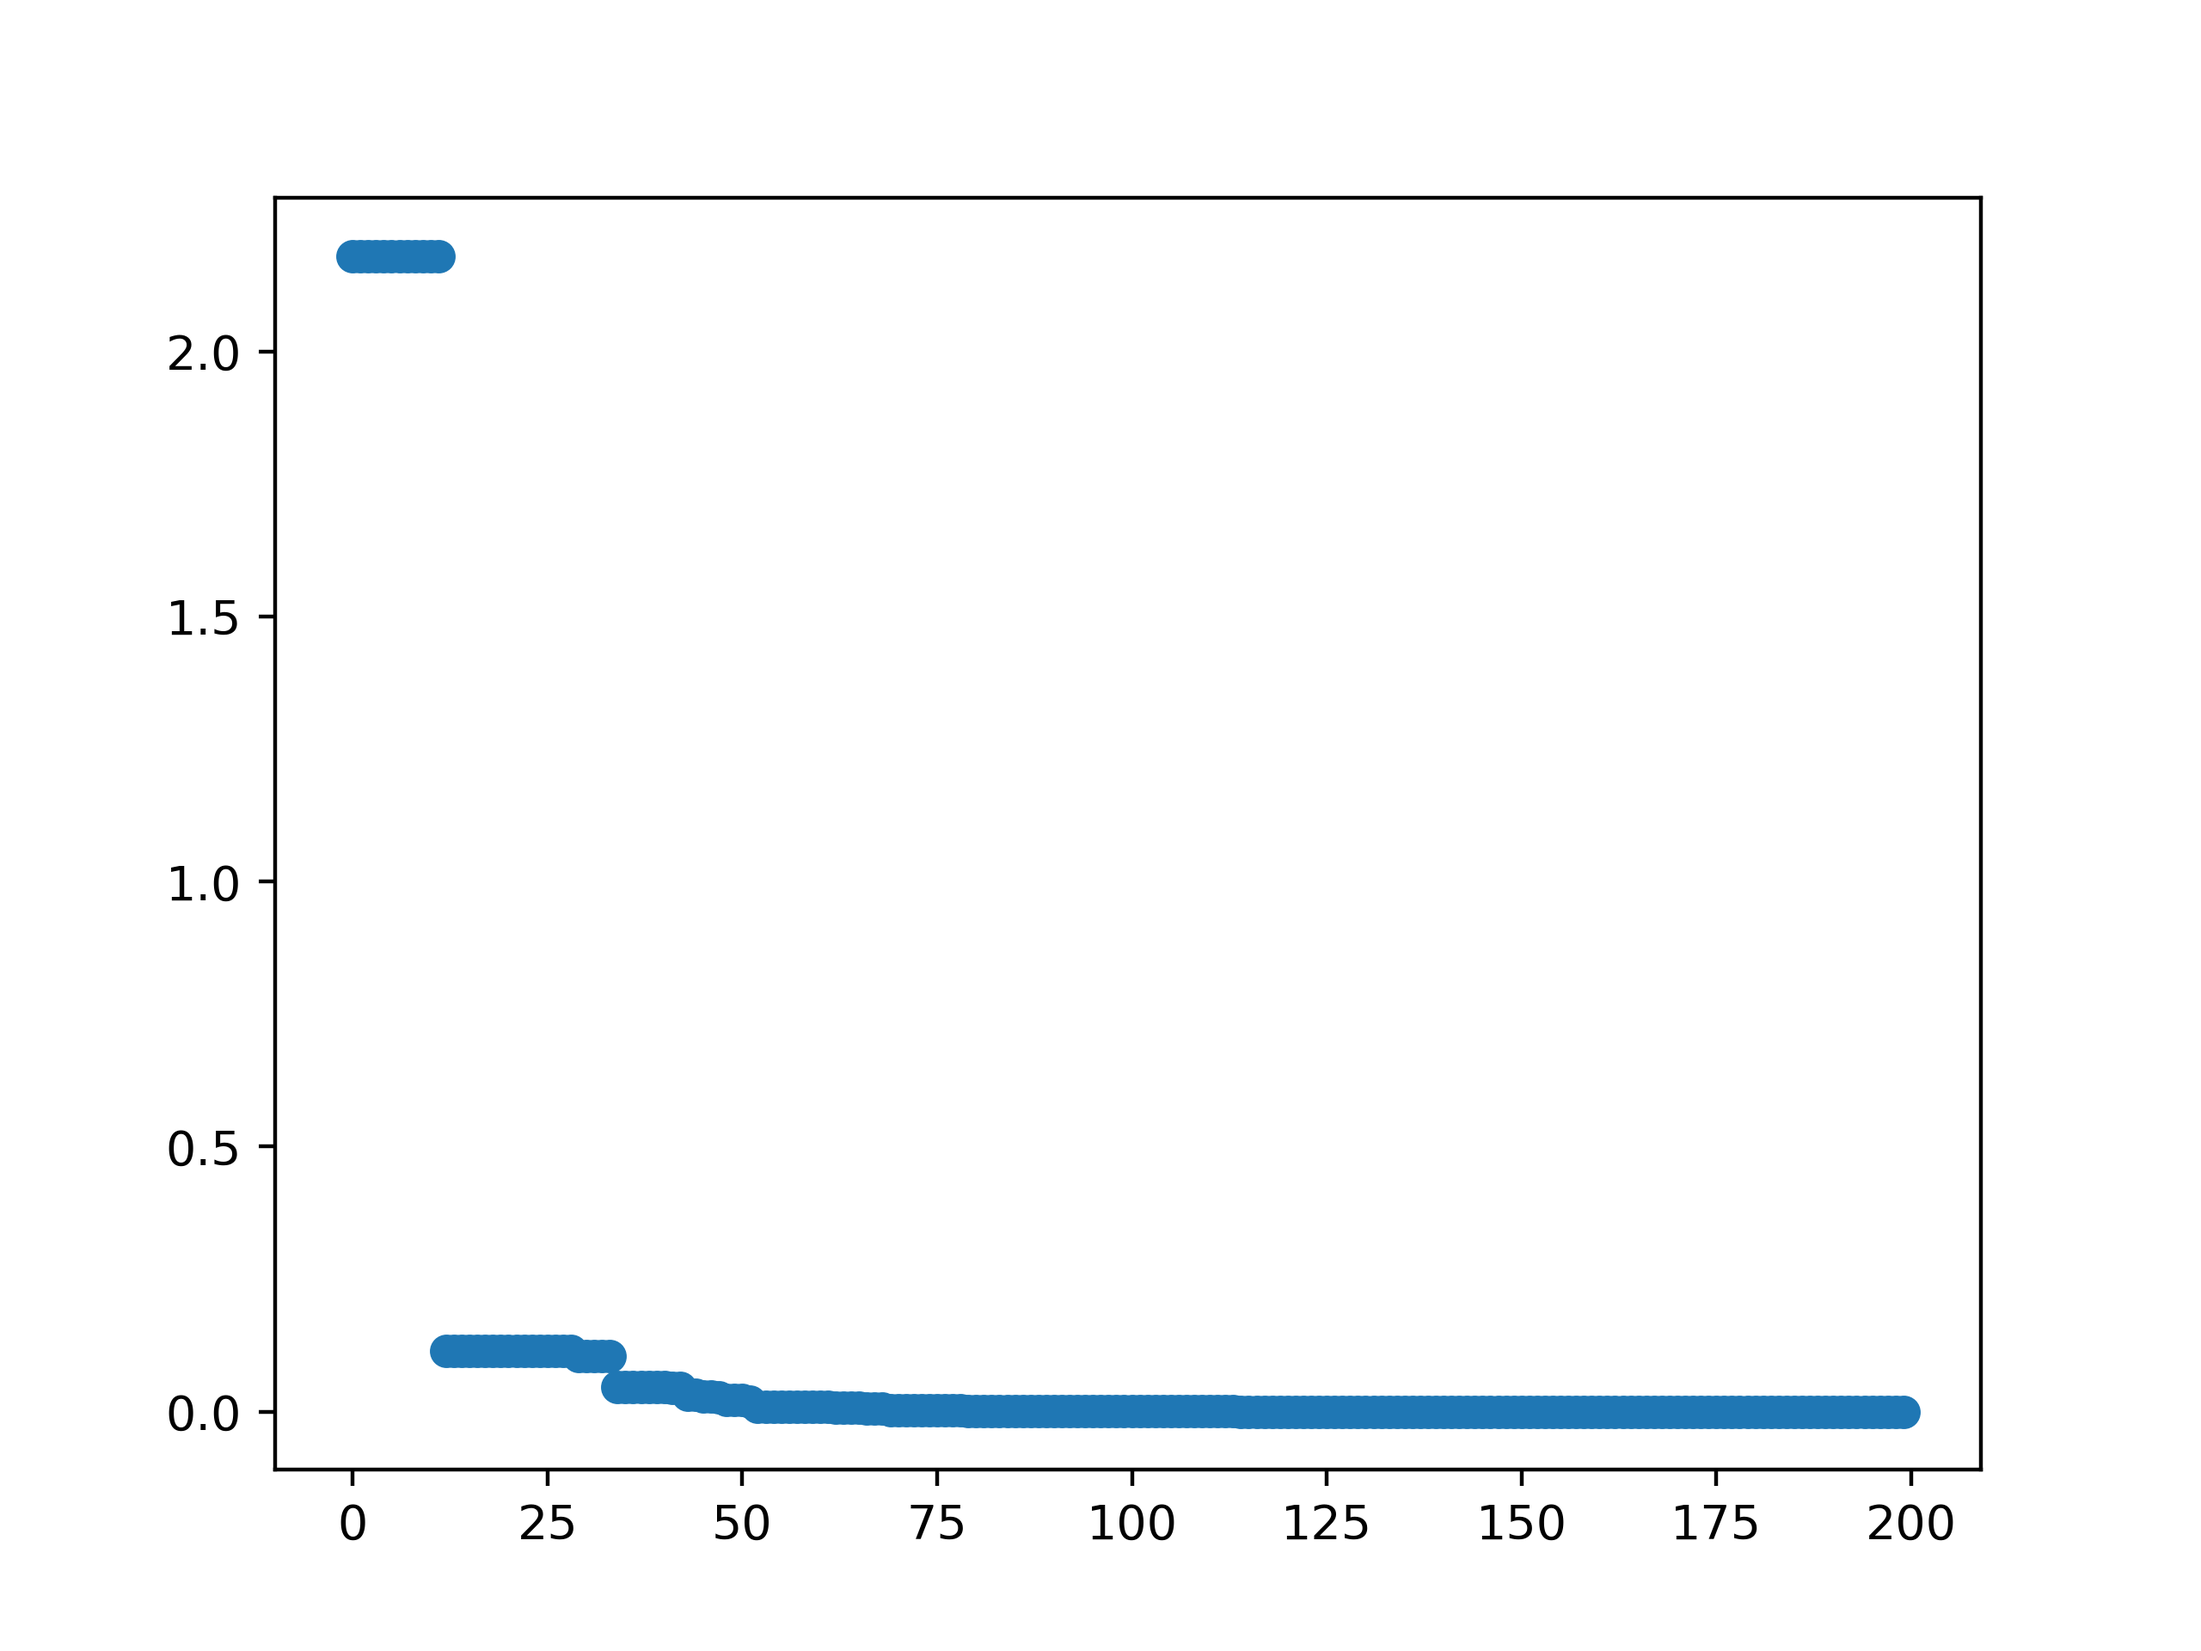
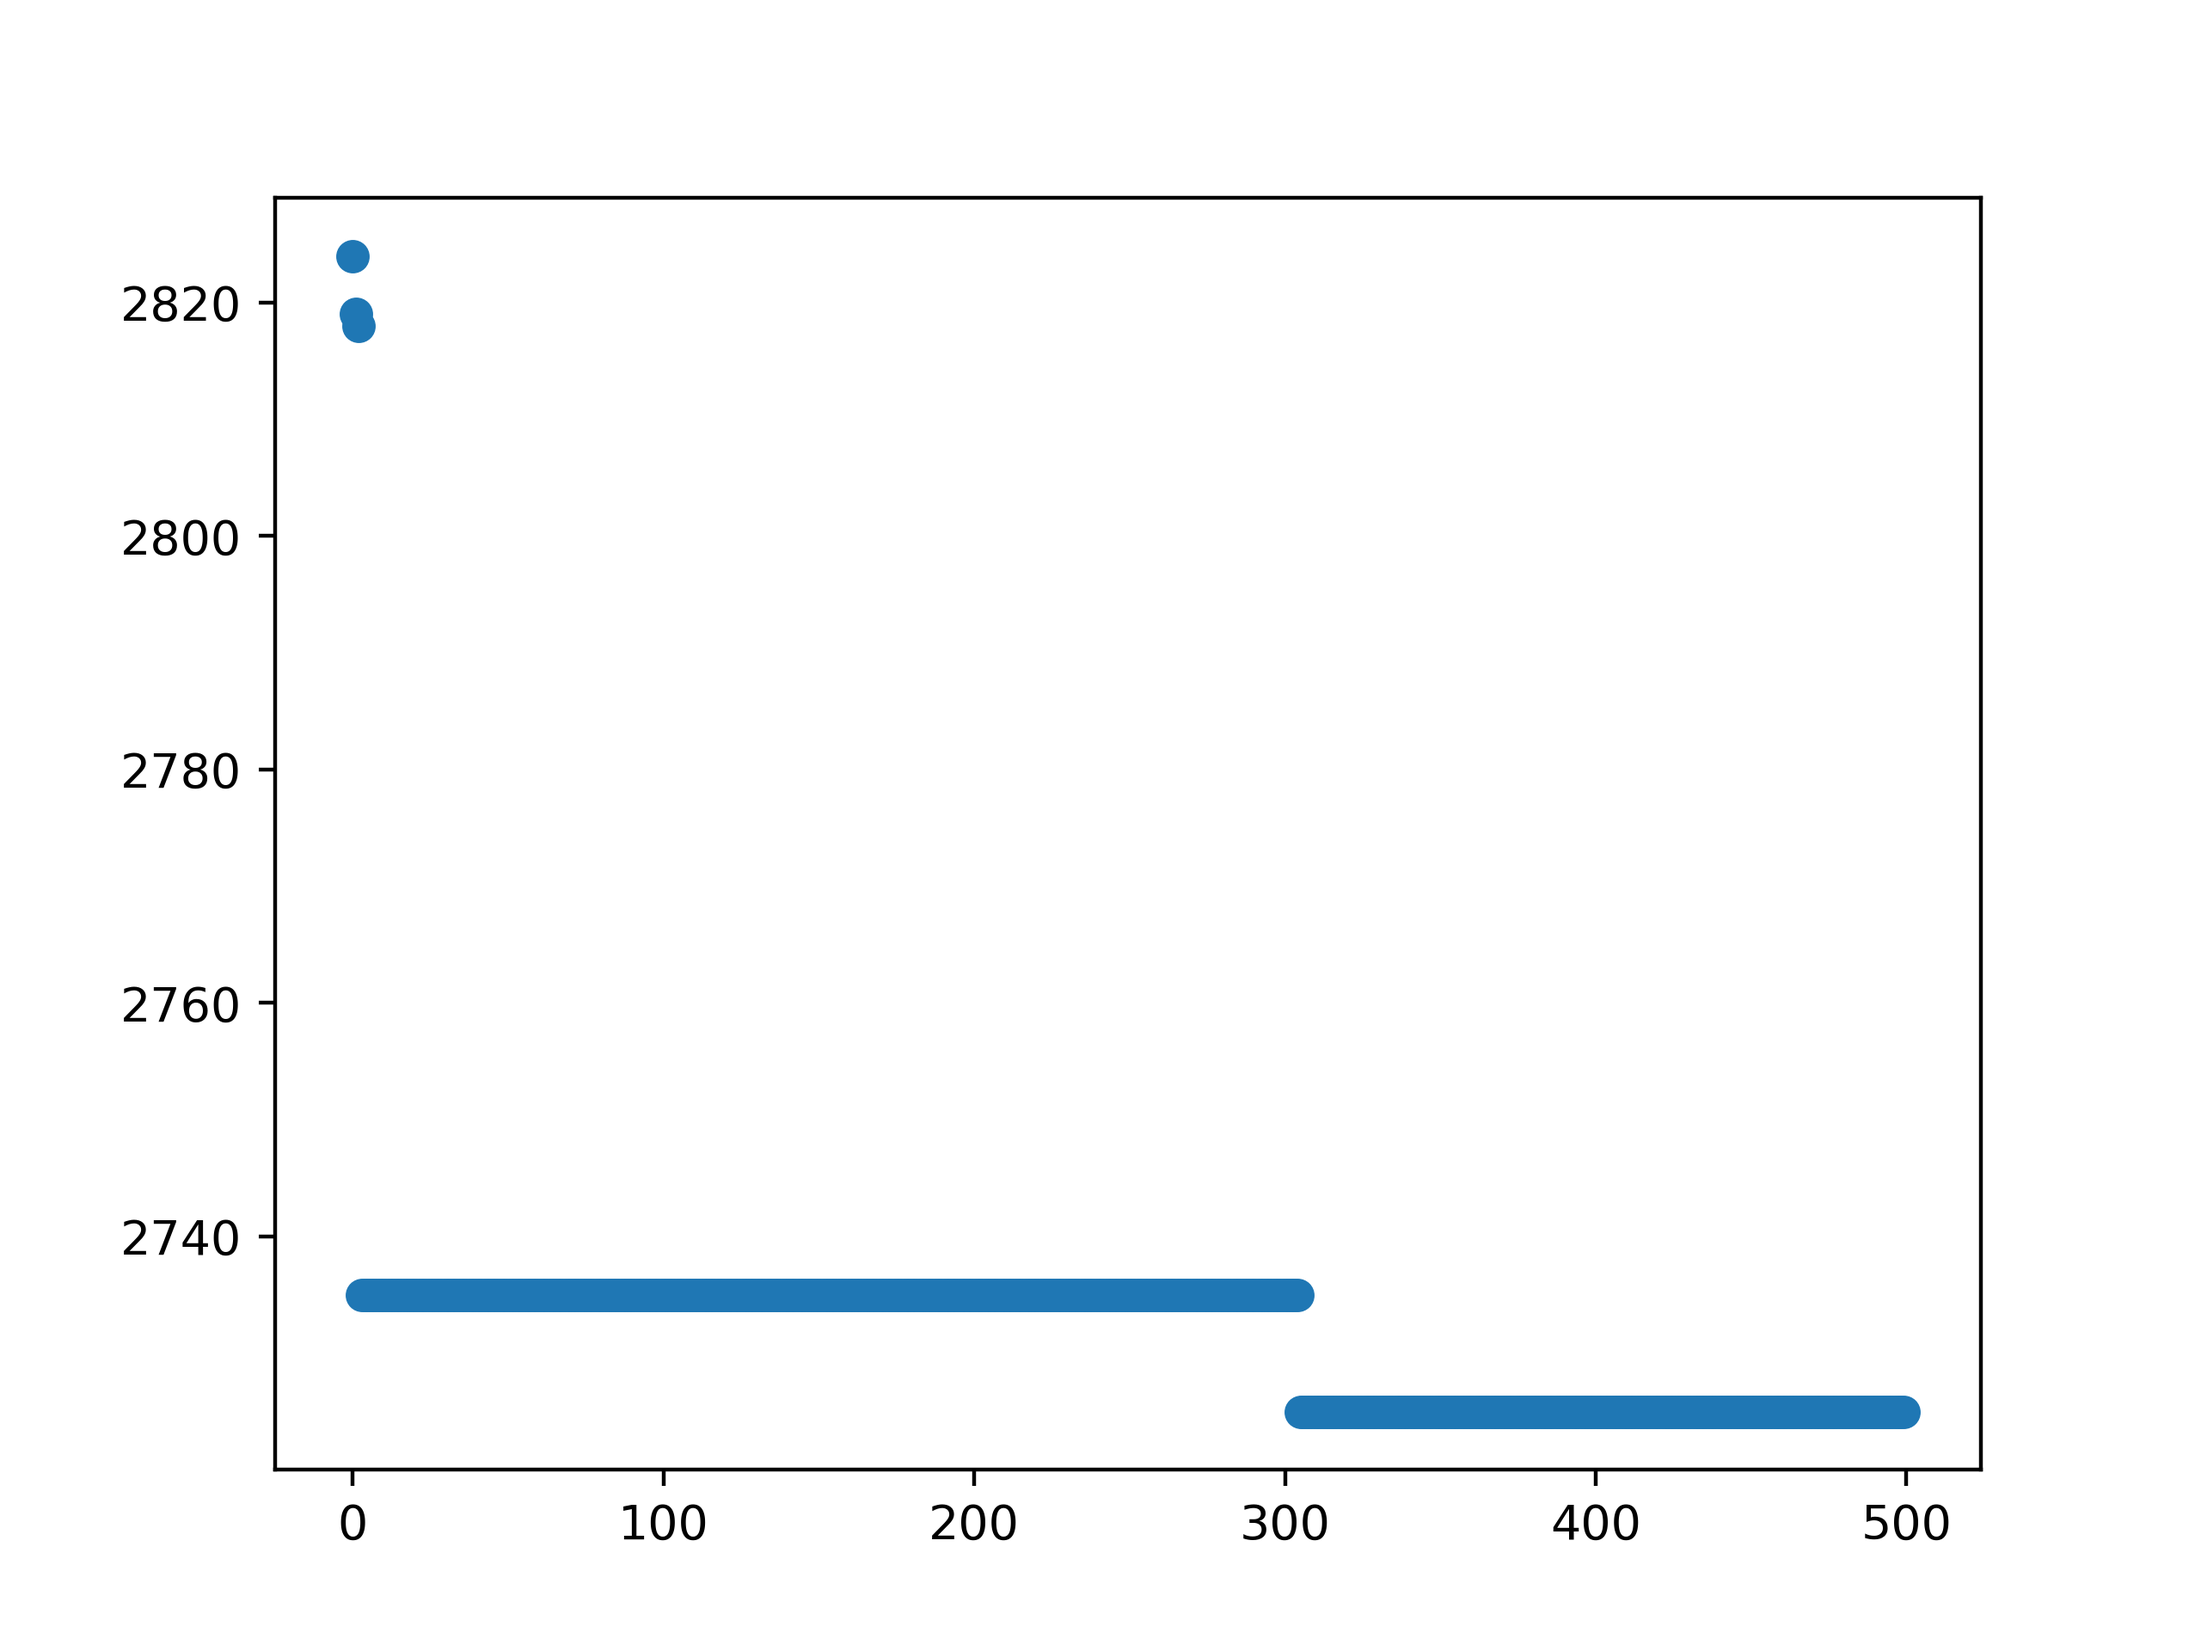
no caminho

diff --git a/seminario/FPA_ox.py b/seminario/FPA_ox.py
@@ -1,0 +1,202 @@
+import numpy as np 
+import random
+import pandas as pd
+from scipy.stats import levy_stable
+import matplotlib.pyplot as plt
+import matplotlib.colors as mcolors
+import os, sys
+
+
+def calcular_makespan(sequencia, tempos):
+    N = len(sequencia)
+    M = len(tempos[0])
+    C = np.zeros((N, M))
+
+    for i, tarefa in enumerate(sequencia):
+        for m in range(M):
+            tempo_proc = tempos[tarefa][m]
+            if i == 0 and m == 0:
+                C[i, m] = tempo_proc
+            elif i == 0:
+                C[i, m] = C[i, m-1] + tempo_proc
+            elif m == 0:
+                C[i, m] = C[i-1, m] + tempo_proc
+            else:
+                C[i, m] = max(C[i-1, m], C[i, m-1]) + tempo_proc
+
+    return C[-1, -1]
+
+class Polen():
+    def __init__(self, m, valores=None):
+        self.m = m
+        if valores is not None:
+            self.valores = np.array(valores)
+        else:
+            self.valores = np.random.permutation(m)
+
+    def __str__(self):
+        return ' '.join(str(v) for v in self.valores) 
+    
+    def __repr__(self):
+        return self.__str__()
+
+class FPA(): 
+    def __init__(self, n, m = 10, taxa_corte = 0.2):
+        self.N, self.M = None, None
+        self.intervalo = (-4, 4)
+        self.tempos     = self.get_tempos()
+        self.n = n                                      #dimensao de cada vetor solucao
+        self.m = m                                      #numero de flores na populacao
+        self.pop = [Polen(self.m) for _ in range(n)]    #POPULACAO = [X1, X2, ..., Xn]
+        self.L  = None 
+        self.p  = 0.8
+        self._lambda = 1.5
+        self.maxIt = 500
+        self.gestrela = None
+        self.corte = int(taxa_corte*n)
+        self.melhor_fitness = None
+        print('n, m:', self.n, self.m)
+
+    def get_tempos(self): 
+        with open(sys.argv[1], 'r') as f:
+            N, M = map(int, f.readline().split())
+
+            matriz = []
+            for _ in range(N):
+                linha = list(map(float, f.readline().split()))
+                matriz.append(linha)
+
+        self.N = N 
+        self.n = N 
+        self.M = M
+        return matriz
+
+    """def fitness(self, x):
+        n = x.m
+        x = x.valores
+        part1 = -0.2 * np.sqrt(np.sum(x**2) / n)
+        part2 = np.sum(np.cos(2 * np.pi * x)) / n
+        return -20 * np.exp(part1) - np.exp(part2) + 20 + np.e
+    """
+    def fitness(self, x):
+        # x é uma instância de Polen ou um array diretamente
+        if isinstance(x, Polen):
+            sequencia = list(map(int, x.valores % self.N))  # garante índices válidos
+        else:
+            sequencia = list(map(int, x % self.N))          # no caso de array
+
+        # Remove duplicatas e completa com tarefas faltantes (para garantir permutação)
+        sequencia = list(dict.fromkeys(sequencia))
+        faltantes = [i for i in range(self.N) if i not in sequencia]
+        sequencia += faltantes
+        return calcular_makespan(sequencia, self.tempos)
+    
+    def ox_crossover(self, pai1, pai2):
+        n_preservados = self.corte
+        tamanho = len(pai1)
+
+        # Escolhe aleatoriamente a posição de início para os genes preservados
+        inicio = np.random.randint(0, tamanho - n_preservados + 1)
+        fim = inicio + n_preservados
+
+        # Cria filhos com None (ou -1 se preferir) nos espaços a serem preenchidos
+        filho1 = [None] * tamanho
+        filho2 = [None] * tamanho
+
+        # Copia o segmento preservado dos pais
+        filho1[inicio:fim] = pai1[inicio:fim]
+        filho2[inicio:fim] = pai2[inicio:fim]
+
+        # Função auxiliar para preencher os filhos com os elementos do outro pai
+        def preencher(filho, outro_pai, inicio, fim):
+            idx = fim % tamanho
+            for gene in outro_pai:
+                if gene not in filho:
+                    filho[idx] = gene
+                    idx = (idx + 1) % tamanho
+            return np.array(filho)
+
+        filho1 = preencher(filho1, pai2, inicio, fim)
+        filho2 = preencher(filho2, pai1, inicio, fim)
+
+        return filho1, filho2
+
+    def rodar(self): 
+        results_fitness = []
+
+        # Inicializa g*
+        melhor_idx = min(range(self.n), key=lambda i: self.fitness(self.pop[i]))
+        self.gestrela = Polen(self.m)
+        self.gestrela.valores = self.pop[melhor_idx].valores.copy()
+        self.melhor_fitness = self.fitness(self.gestrela)
+
+        for it in range(self.maxIt): 
+            for i in range(0, self.n, 2): 
+                xi1 = self.pop[i].valores.copy()            #x_{i} 
+                xi2 = self.pop[i+1].valores.copy()          #x_{i+1}
+
+                #Polinizacao global
+                if np.random.rand() < self.p:
+                    #gera a distribuicao de Levy 
+                    L1 = levy_stable.rvs(self._lambda, beta=0, size=self.m)
+                    L2 = levy_stable.rvs(self._lambda, beta=0, size=self.m)
+                    x_new   = xi1 + L1*(self.gestrela.valores - xi1)
+                    x_new2  = xi2 + L2*(self.gestrela.valores - xi2)
+                
+                #Polinizacao local
+                else:
+                    j = random.randint(0, self.n - 1)
+                    k = random.randint(0, self.n - 1)
+
+                    while j == k:
+                        k = random.randint(0, self.n - 1)
+
+                    epsilon1 = np.random.uniform(size=self.m)
+                    epsilon2 = np.random.uniform(size=self.m)
+
+                    #x_new    = xi1 + epsilon1 * (self.pop[j].valores - self.pop[k].valores)
+                    x_new, x_new2 = self.ox_crossover(self.pop[j].valores, self.pop[k].valores)
+
+                #assegura que xmin <= x <= xmax
+                #x_new   = np.clip(x_new, self.intervalo[0], self.intervalo[1])
+                #x_new2  = np.clip(x_new2, self.intervalo[0], self.intervalo[1])
+
+                novo_polen = Polen(self.m)
+                novo_polen.valores = x_new
+
+                novo_polen2 = Polen(self.m)
+                novo_polen2.valores = x_new2
+
+                #inserindo os novos polens na populacao, caso tenham fitnesse melhor (elitismo) 
+                if self.fitness(novo_polen) < self.fitness(self.pop[i].valores):
+                    self.pop[i].valores = x_new
+
+                    # Atualiza g* se necessario
+                    if self.fitness(novo_polen) < self.melhor_fitness:
+                        self.gestrela.valores = x_new.copy()
+                        self.melhor_fitness = self.fitness(novo_polen)
+                
+                if self.fitness(novo_polen2) < self.fitness(self.pop[i+1].valores):
+                    self.pop[i+1].valores = x_new2
+
+                    # Atualiza g* se necessario
+                    if self.fitness(novo_polen2) < self.melhor_fitness:
+                        self.gestrela.valores = x_new2.copy()
+                        self.melhor_fitness = self.fitness(novo_polen2)
+
+            results_fitness.append(self.melhor_fitness)
+    
+        self.historico_fitness = results_fitness
+
+            
+    def __str__(self):
+        return f'Numero de polens: {self.n}\nVetor gbest:{self.gestrela}\nMelhor Fitness: {self.melhor_fitness}\n'+ str(self.pop)
+        
+
+
+
+fpa = FPA(10, m  = 3)
+fpa.rodar()
+plt.scatter(range(fpa.maxIt), fpa.historico_fitness)
+plt.savefig('results.png', dpi = 400)
+print(fpa)

diff --git a/seminario/teste.py b/seminario/teste.py
@@ -1,0 +1,40 @@
+import numpy as np
+
+
+def ox_crossover(pai1, pai2, n_preservados):
+    tamanho = len(pai1)
+
+    # Escolhe aleatoriamente a posição de início para os genes preservados
+    inicio = np.random.randint(0, tamanho - n_preservados + 1)
+    fim = inicio + n_preservados
+
+    # Cria filhos com None (ou -1 se preferir) nos espaços a serem preenchidos
+    filho1 = [None] * tamanho
+    filho2 = [None] * tamanho
+
+    # Copia o segmento preservado dos pais
+    filho1[inicio:fim] = pai1[inicio:fim]
+    filho2[inicio:fim] = pai2[inicio:fim]
+
+    # Função auxiliar para preencher os filhos com os elementos do outro pai
+    def preencher(filho, outro_pai, inicio, fim):
+        idx = fim % tamanho
+        for gene in outro_pai:
+            if gene not in filho:
+                filho[idx] = gene
+                idx = (idx + 1) % tamanho
+        return np.array(filho)
+
+    filho1 = preencher(filho1, pai2, inicio, fim)
+    filho2 = preencher(filho2, pai1, inicio, fim)
+
+    return filho1, filho2
+
+
+pai1 = [1,  2,  3,  4,  5,  6,  7,  8,  9,  10]
+pai2 = [10, 8,  1,  4,  5,  7,  2,  3,  6,  9] 
+
+print(pai1, pai2)
+
+f1, f2 = ox_crossover(pai1, pai2, 5)
+print(f1, f2)

diff --git a/seminario/FPA.py b/seminario/FPA.py
@@ -90,7 +90,7 @@ class FPA():
                     L = levy_stable.rvs(self._lambda, beta=0, size=self.m)
                     x_new = xi + L*(self.gestrela.valores - xi)
                 
-                #Polinizacao global
+                #Polinizacao local
                 else:
                     j = random.randint(0, self.n - 1)
                     k = random.randint(0, self.n - 1)
